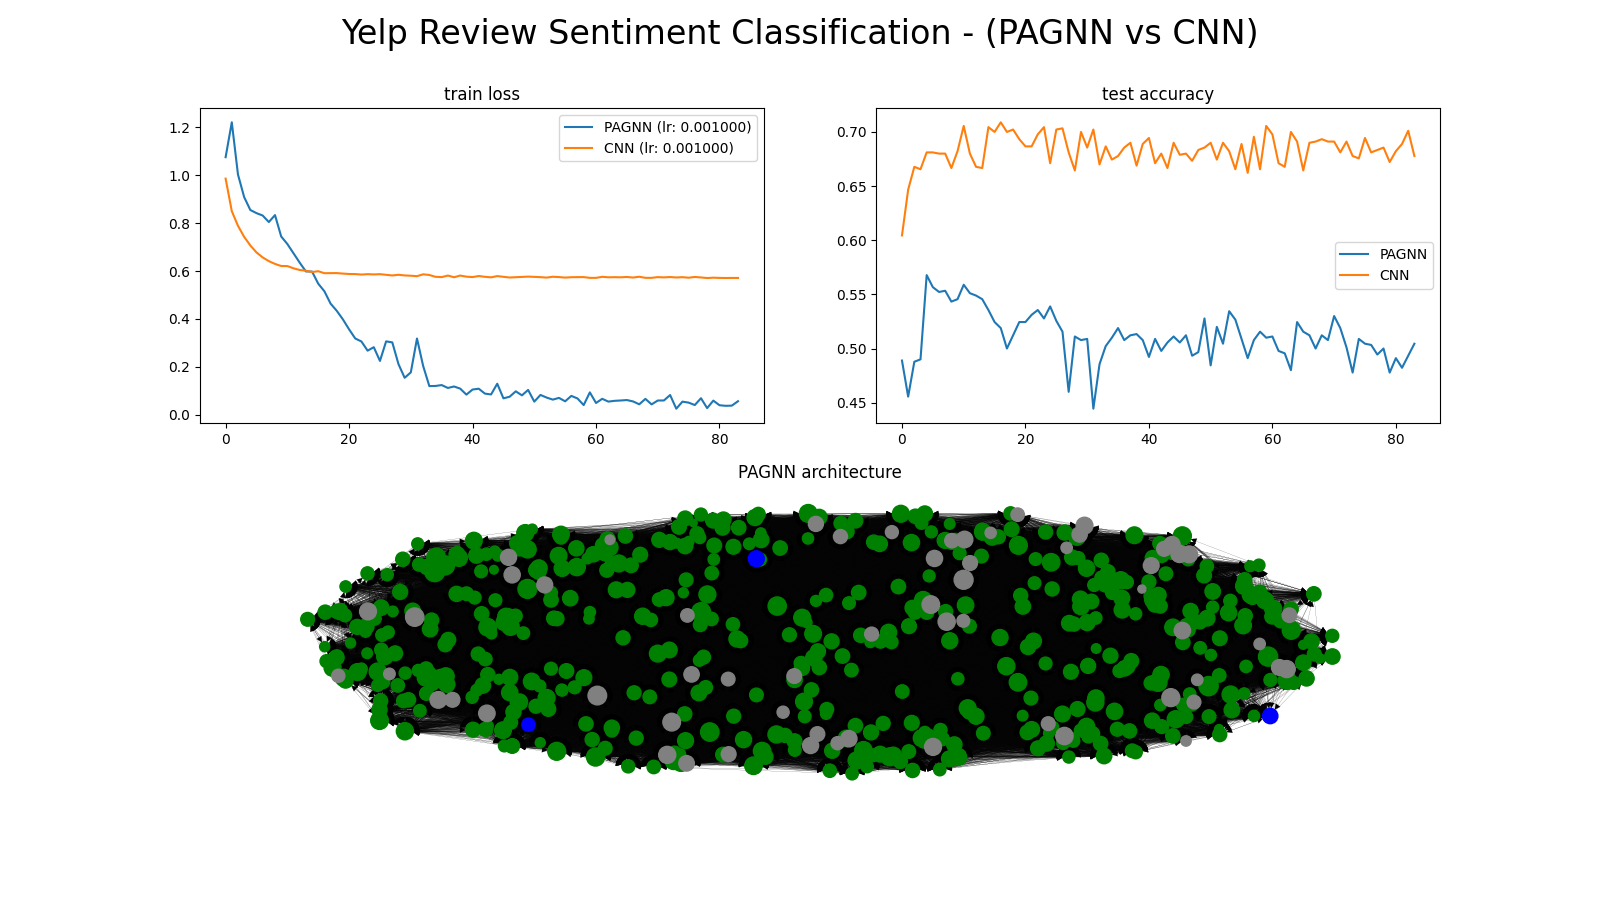
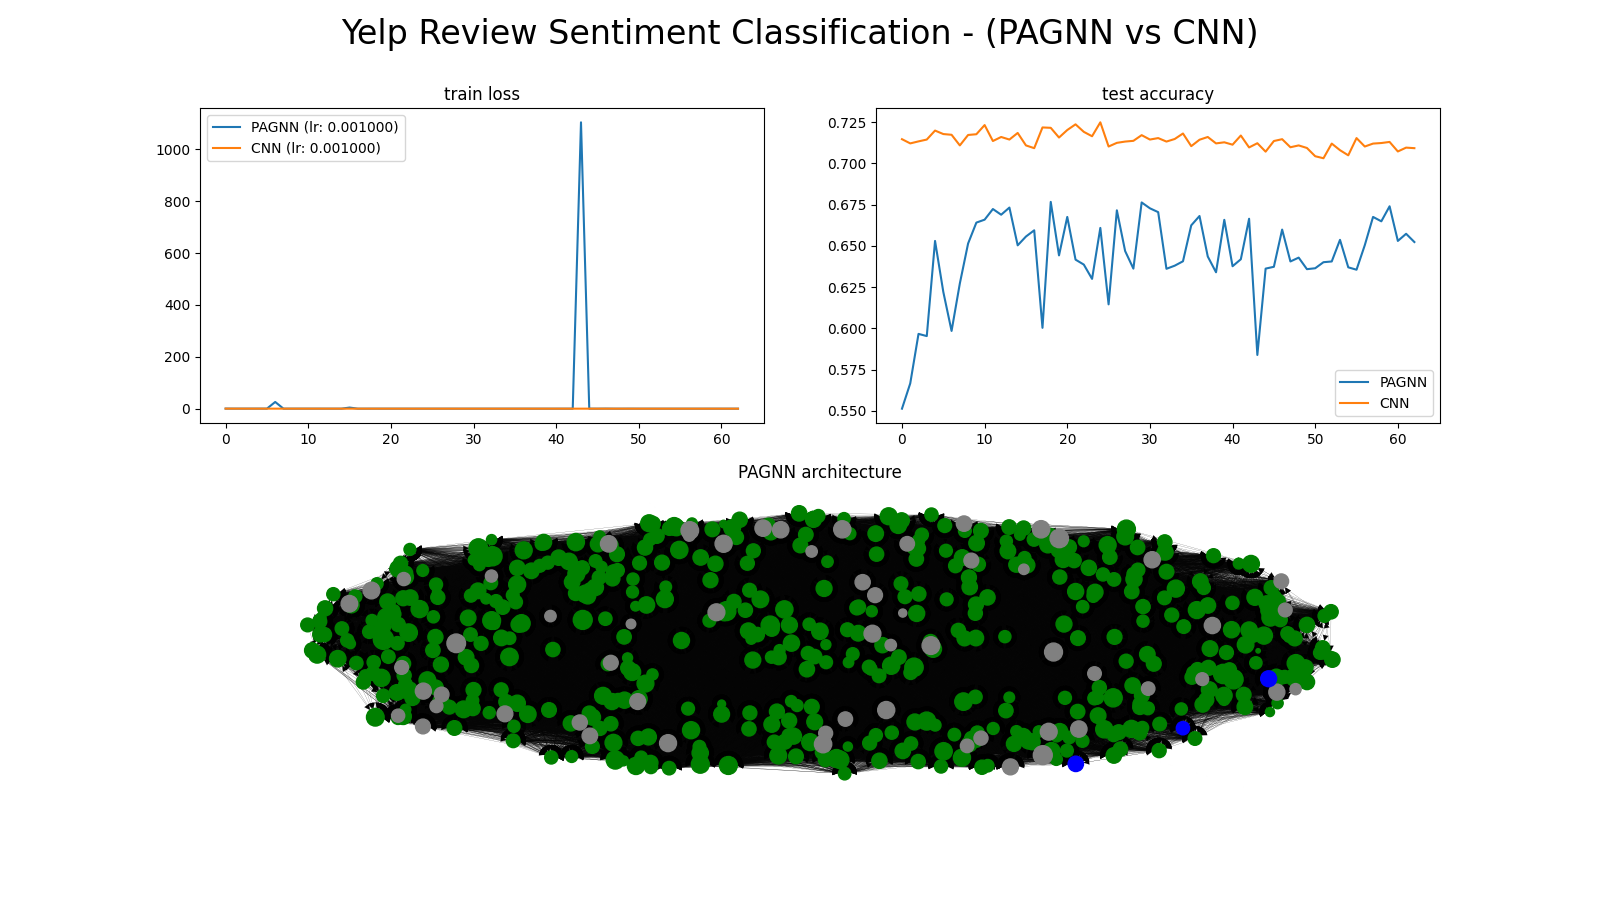
more data for higher accuracy

diff --git a/comparisons/nlp/yelp/yelp_dataset.py b/comparisons/nlp/yelp/yelp_dataset.py
@@ -141,7 +141,7 @@ if __name__ == '__main__':
     """LOAD AND PREPROCESS DATA"""
     df = pd.read_csv('datasets/yelp/output_reviews_top.csv')
     df['sentiment'] = [map_sentiment(x) for x in df['stars']]
-    df = get_top_data(df, top_n=1000)
+    df = get_top_data(df, top_n=10000)
     # Tokenize the text column to get the new column 'tokenized_text'
     df['tokenized_text'] = [simple_preprocess(line, deacc=True) for line in df['text']] 
     # Get the stemmed_tokens
@@ -182,7 +182,7 @@ if __name__ == '__main__':
     pagnn_history = {'train_loss': [], 'test_accuracy': []}
     cnn_history = {'train_loss': [], 'test_accuracy': []}
 
-    epochs = 100
+    epochs = 64
     try:
         for epoch in range(epochs):
             print('epoch', epoch)
